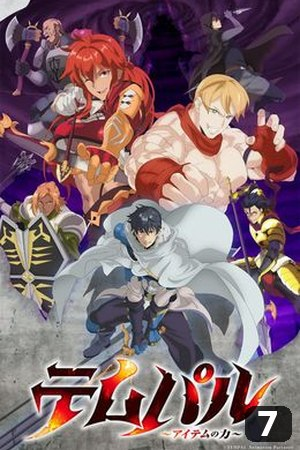
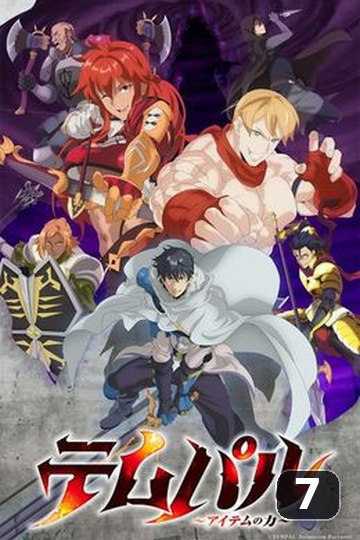
animeav1: miniatura del frame de cada capitulo en la lista (screenshots/<id>/<cap>) y portada compuesta con mejor margen y diseno

Changed region(s): [[0.75, 0.84, 0.99, 0.9956]]

diff --git a/extensiones/AnimeAV1/src/main/kotlin/com/foxcloud/animeav1/AnimeAV1Provider.kt b/extensiones/AnimeAV1/src/main/kotlin/com/foxcloud/animeav1/AnimeAV1Provider.kt
@@ -186,6 +186,22 @@ class AnimeAV1Provider : MainAPI() {
             m.groupValues[2].toIntOrNull()?.let { it to fixUrl(href) }
         }.distinctBy { it.first }.sortedBy { it.first }
 
+        // Miniaturas por episodio: el CDN sirve screenshots/<id>/<cap>.jpg.
+        // Si la serie no las tiene se usa su frame (thumbnails/<id>.jpg) y, en
+        // el peor caso, la portada, para que ninguna tarjeta quede vacia.
+        val serieId = idDeImagen(poster)
+        val marcoSerie = serieId?.let { "$CDN/thumbnails/$it.jpg" }
+        val primerCapitulo = episodios.firstOrNull()?.first
+        val hayCapturas = serieId != null && primerCapitulo != null &&
+            existeImagen("$CDN/screenshots/$serieId/$primerCapitulo.jpg")
+        val hayMarco = !hayCapturas && marcoSerie != null && existeImagen(marcoSerie)
+
+        fun posterDeCapitulo(numero: Int): String? = when {
+            serieId != null && hayCapturas -> "$CDN/screenshots/$serieId/$numero.jpg"
+            hayMarco -> marcoSerie
+            else -> poster
+        }
+
         // Ficha sin episodios (proximamente): nunca inventar una URL de play.
         if (episodios.isEmpty()) {
             return newAnimeLoadResponse(titulo, url, tipo) {
@@ -219,6 +235,7 @@ class AnimeAV1Provider : MainAPI() {
                     newEpisode(enlace) {
                         this.episode = numero
                         this.name = "Episodio $numero"
+                        this.posterUrl = posterDeCapitulo(numero)
                     }
                 }
             )
@@ -337,6 +354,10 @@ class AnimeAV1Provider : MainAPI() {
             .minByOrNull { it.text().length }
         return etiqueta?.closest("section")
     }
+
+    /** El CDN responde 403 cuando la imagen no existe. */
+    private suspend fun existeImagen(url: String): Boolean =
+        runCatching { app.get(url).isSuccessful }.getOrDefault(false)
 
     private fun idDeImagen(url: String?): String? =
         url?.let { idImagenRegex.find(it)?.groupValues?.get(1) }

diff --git a/.github/scripts/caps.py b/.github/scripts/caps.py
@@ -18,14 +18,14 @@ import re
 import sys
 
 import requests
-from PIL import Image, ImageDraw, ImageFont
+from PIL import Image, ImageDraw, ImageFilter, ImageFont
 
 BASE = "https://animeav1.com"
 CDN = "https://cdn.animeav1.com"
 AQUI = os.path.dirname(os.path.dirname(os.path.dirname(os.path.abspath(__file__))))
 SALIDA = os.path.join(AQUI, "caps")
 
-ANCHO, ALTO = 300, 450
+ANCHO, ALTO = 360, 540
 UA = "Mozilla/5.0 (Windows NT 10.0; Win64; x64) AppleWebKit/537.36 (KHTML, like Gecko) Chrome/154.0.0.0 Safari/537.36"
 
 
@@ -93,21 +93,38 @@ def componer(portada: bytes, cap: str) -> Image.Image:
     img = img.resize((ANCHO, ALTO), Image.LANCZOS)
 
     texto = str(cap)
-    font = fuente(34)
-    capa = Image.new("RGBA", img.size, (0, 0, 0, 0))
-    dibujo = ImageDraw.Draw(capa)
-    caja = dibujo.textbbox((0, 0), texto, font=font)
+    font = fuente(42)
+    # medidas del texto
+    medidor = ImageDraw.Draw(Image.new("RGBA", (1, 1)))
+    caja = medidor.textbbox((0, 0), texto, font=font)
     ancho_t, alto_t = caja[2] - caja[0], caja[3] - caja[1]
-    pad_x, pad_y = 11, 5
+    pad_x, pad_y = 18, 10
     ancho_p = ancho_t + pad_x * 2
     alto_p = alto_t + pad_y * 2
-    margen = 9
-    x0, y0 = ANCHO - margen - ancho_p, ALTO - margen - alto_p
+    margen = 20  # despegado del borde
+    x0 = ANCHO - margen - ancho_p
+    y0 = ALTO - margen - alto_p
+    radio = 15
+
+    # sombra suave + pastilla oscura + texto blanco
+    capa = Image.new("RGBA", img.size, (0, 0, 0, 0))
+    dibujo = ImageDraw.Draw(capa)
+    sombra = Image.new("RGBA", img.size, (0, 0, 0, 0))
+    ImageDraw.Draw(sombra).rounded_rectangle(
+        (x0, y0 + 3, x0 + ancho_p, y0 + alto_p + 3), radius=radio, fill=(0, 0, 0, 120)
+    )
+    sombra = sombra.filter(ImageFilter.GaussianBlur(6))
+    capa = Image.alpha_composite(capa, sombra)
+    dibujo = ImageDraw.Draw(capa)
     dibujo.rounded_rectangle(
-        (x0, y0, x0 + ancho_p, y0 + alto_p), radius=9, fill=(0, 0, 0, 190)
+        (x0, y0, x0 + ancho_p, y0 + alto_p),
+        radius=radio,
+        fill=(12, 12, 16, 205),
+        outline=(255, 255, 255, 55),
+        width=2,
     )
     dibujo.text(
-        (x0 + pad_x - caja[0], y0 + pad_y - caja[1]), texto, font=font, fill=(255, 255, 255, 255)
+        (x0 + pad_x - caja[0], y0 + pad_y - caja[1] - 1), texto, font=font, fill=(255, 255, 255, 255)
     )
     return Image.alpha_composite(img.convert("RGBA"), capa).convert("RGB")
 
